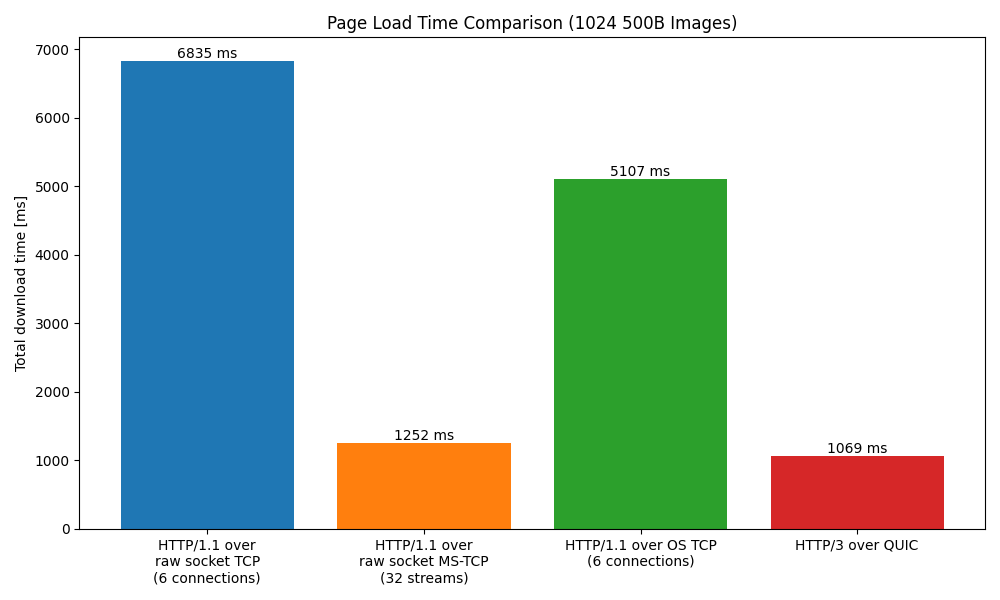
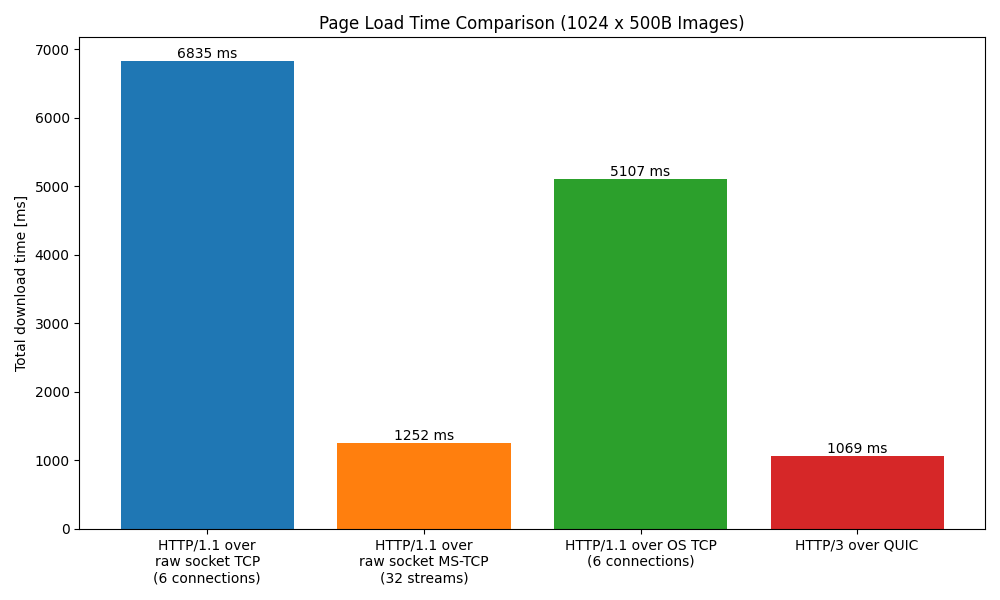
x QUIC images

Changed region(s): [[0.31, 0.03, 0.744, 0.06]]

diff --git a/quic_comparison_graph.py b/quic_comparison_graph.py
@@ -2,7 +2,7 @@ import matplotlib.pyplot as plt
 import numpy as np
 
 # Sample data - replace with your actual data
-plot_titles = ["Page Load Time Comparison (1024 500B Images)", "Page Load Time Comparison (64 500B Images)", "Page Load Time Comparison (64 10KB Images)"]
+plot_titles = ["Page Load Time Comparison (1024 x 500B Images)", "Page Load Time Comparison (64 x 500B Images)", "Page Load Time Comparison (64 x 10KB Images)"]
 
 # Sample data array [3 plots][4 columns]
 data = [
